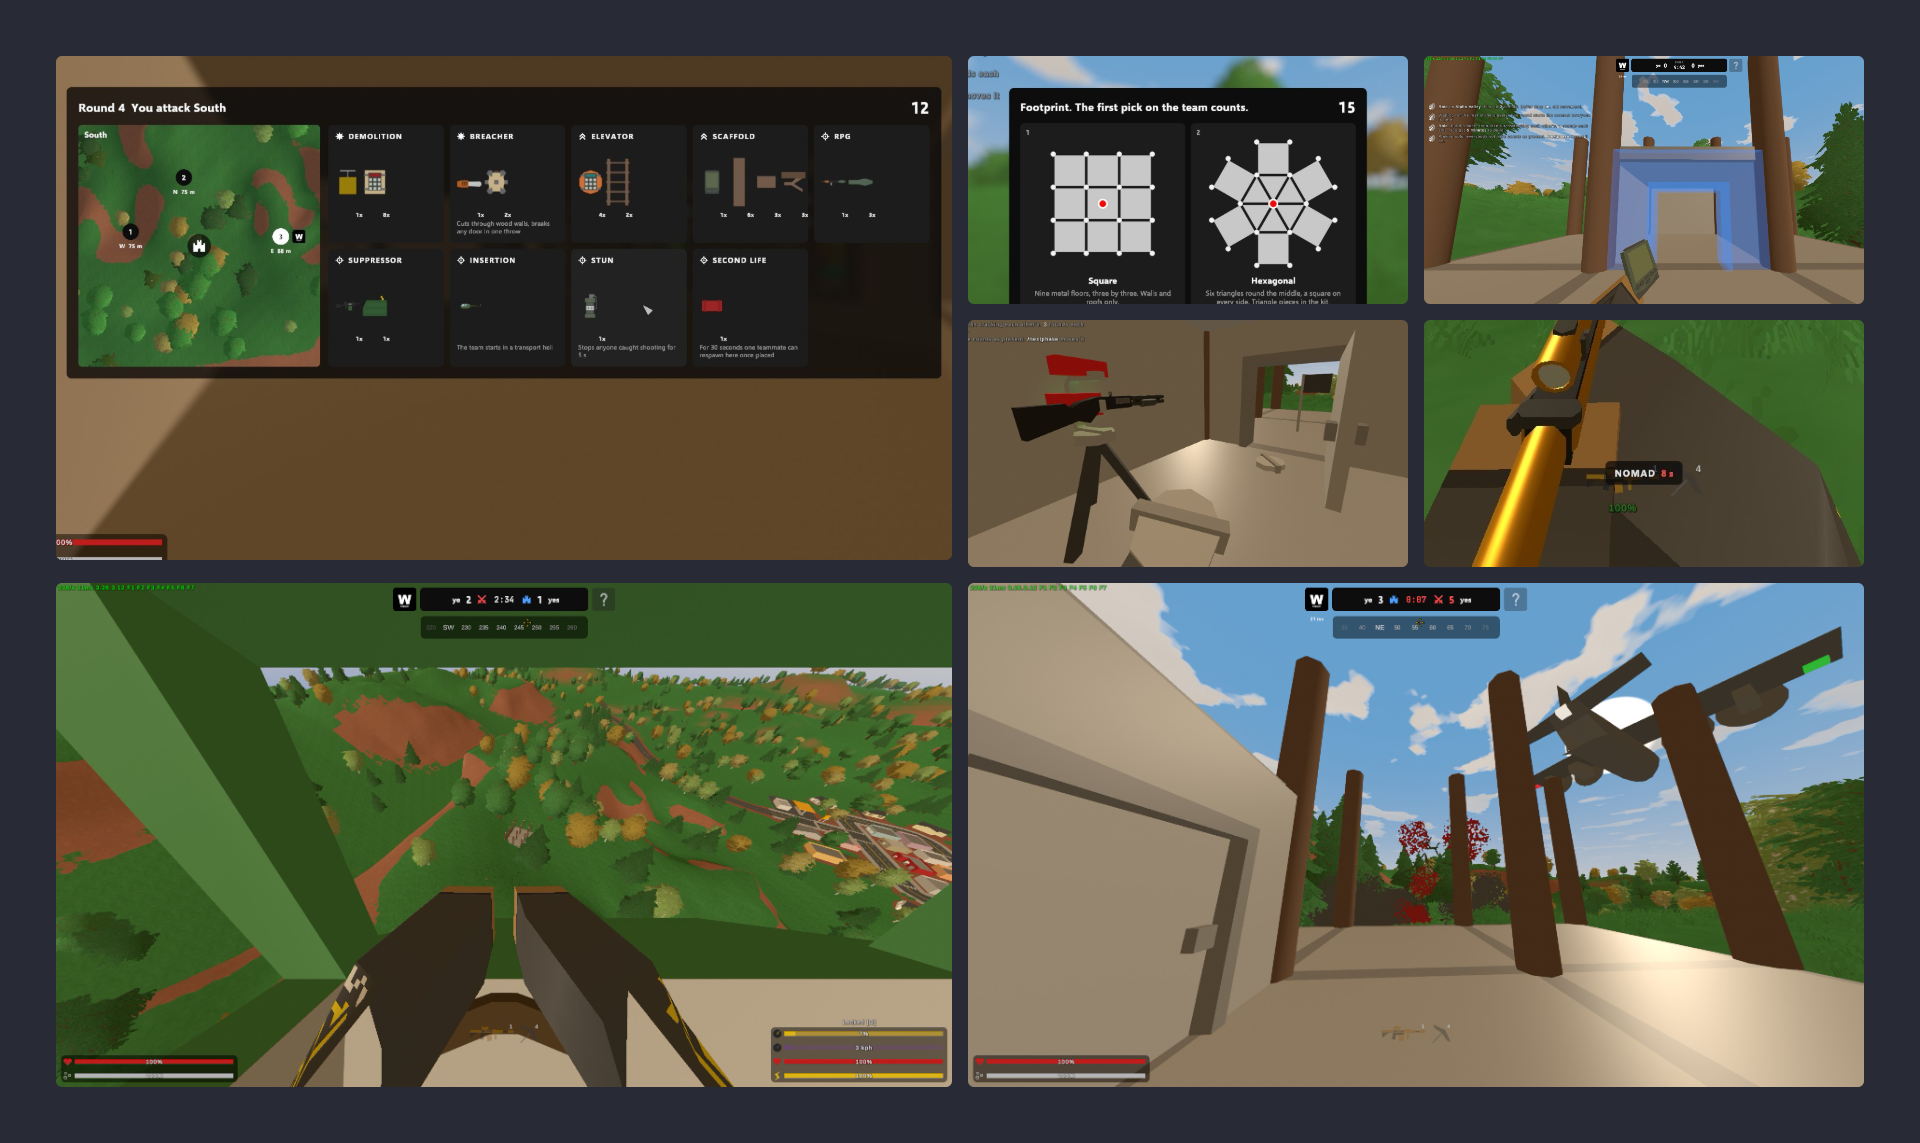
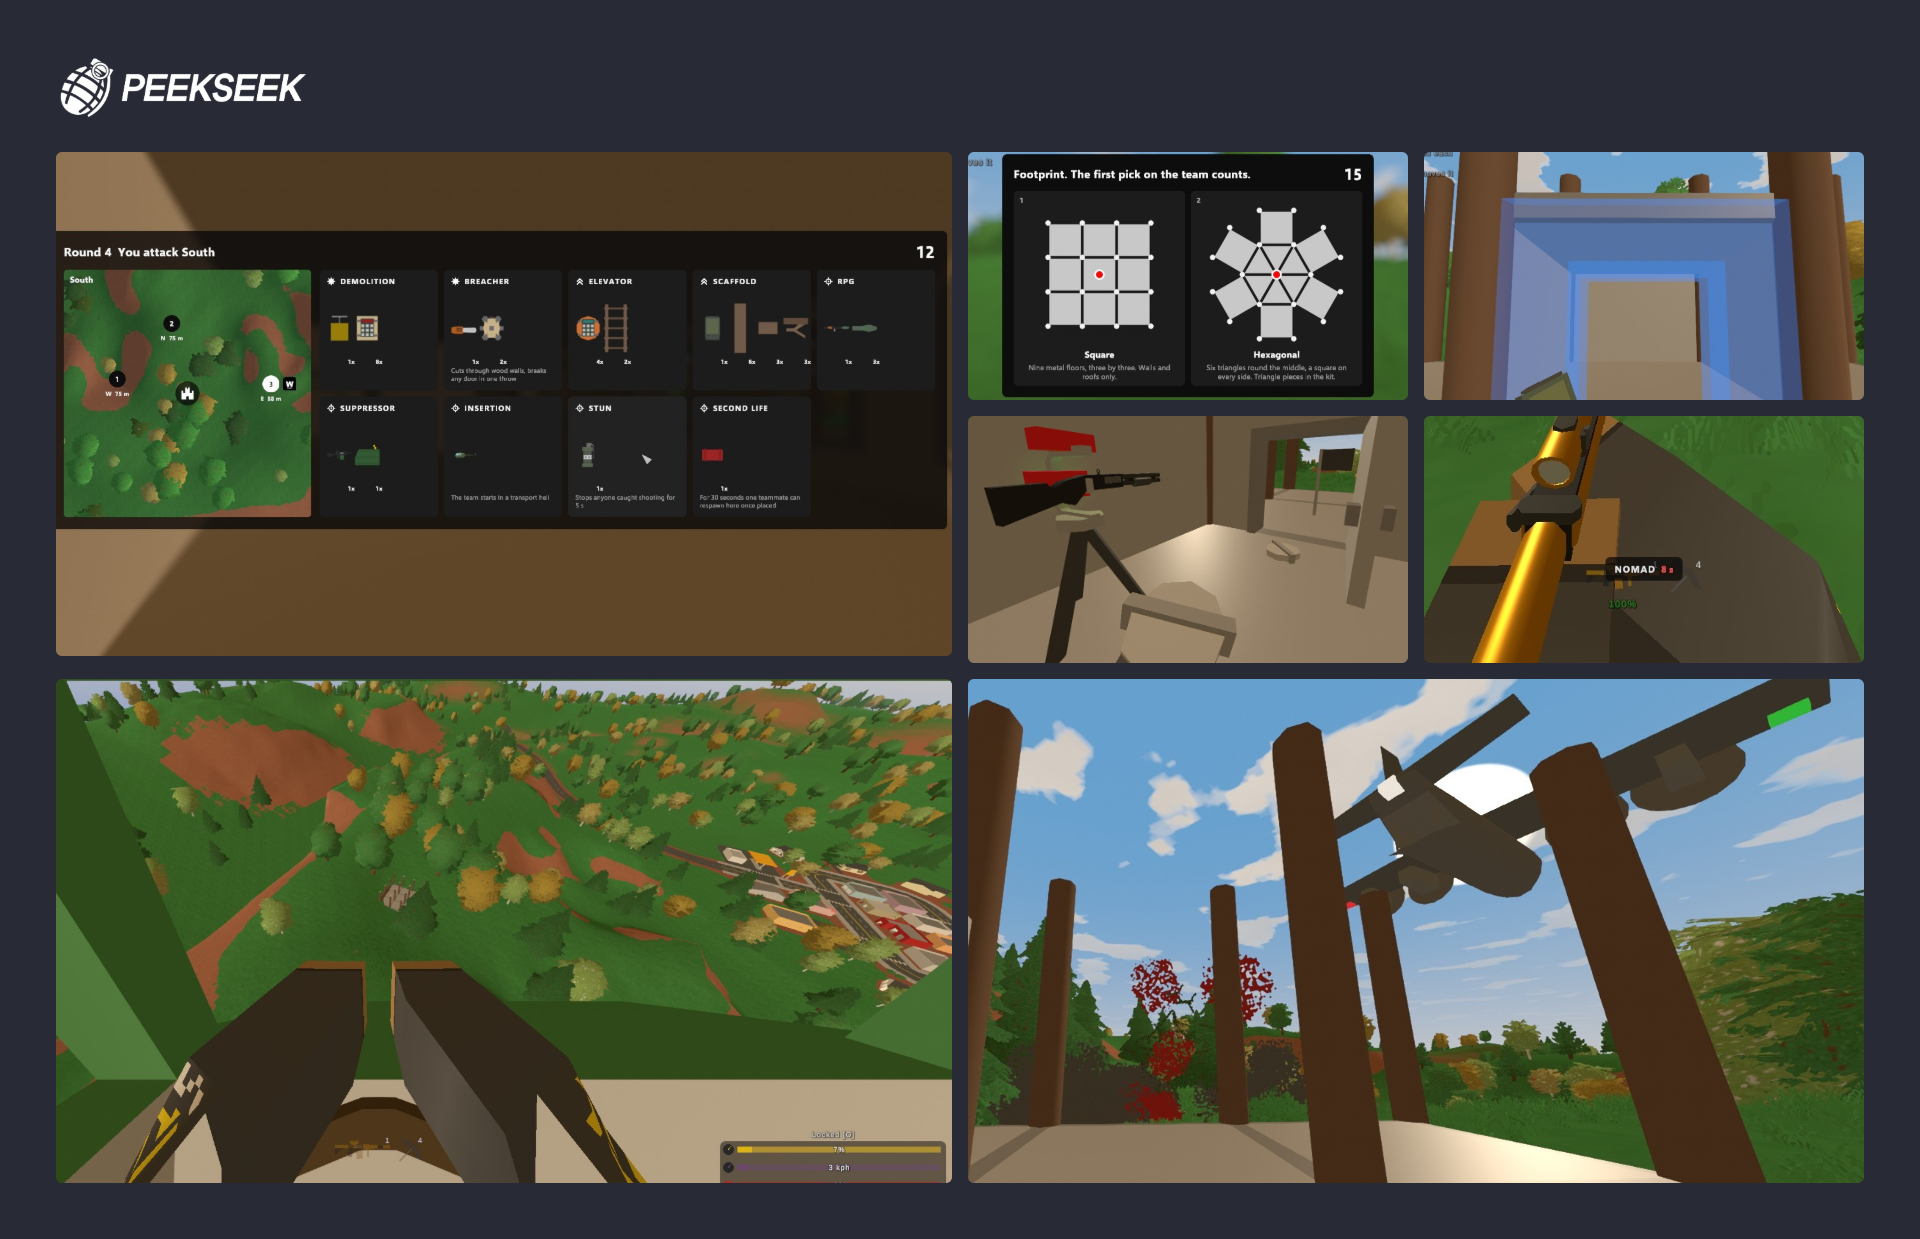
Spawn RAID teams in the exact middle of their base, and keep that spot empty
A team spawned on whichever starting tile was clear, nearest the middle and
spread by roster order, so players landed somewhere different each time and
could be put inside a piece. Every spawn on a team's own base is now the
exact middle of the bottom storey. Anything built there during the build
phase, a starting pillar included, is taken down on the next tick, and the
base is swept once more before it is captured for the rounds. The flag may
not stand there, and is told so.

Also: Match's arena patch comment now says why ARENA must run first, and
the site drops four unused imports.

PeekSeek RAID 0.4.1.

diff --git a/plugins/peekseek-raid/plugin/Core/RaidWorld.cs b/plugins/peekseek-raid/plugin/Core/RaidWorld.cs
@@ -192,10 +192,11 @@ internal static class RaidWorld {
         if (Assets.find(EAssetType.ITEM, PeekSeekRaid.Config.AnchorMarkerItemId) is not ItemBarricadeAsset marker) return;
         if (!anchorTiles.TryGetValue(siteIndex, out List<Vector3> tiles)) return;
 
+        // Never the middle of the bottom storey, which is where the team spawns.
         System.Random random = new();
-        Vector3 chosen = tiles.OrderBy(_ => random.Next())
-            .FirstOrDefault(tile => IsClear(tile) && !NearDoor(tile));
-        if (chosen == default) chosen = site.AnchorPoint;
+        List<Vector3> offSpawn = tiles.Where(tile => !InSpawnColumn(site, tile)).OrderBy(_ => random.Next()).ToList();
+        Vector3 chosen = offSpawn.FirstOrDefault(tile => IsClear(tile) && !NearDoor(tile));
+        if (chosen == default) chosen = offSpawn.Count > 0 ? offSpawn[0] : site.AnchorPoint;
 
         // `offset` on a barricade asset is how far its pivot sits above the ground it
         // stands on, so it is the correction that stops the flag being buried up to
@@ -233,7 +234,7 @@ internal static class RaidWorld {
                 && local.y <= FlagAboveTile;
         });
 
-        return onATile && !NearDoor(point);
+        return onATile && !NearDoor(point) && !InSpawnColumn(site, point);
     }
 
     /// Why the flag may not stand here, or null when it may: at least FlagDoorClearance
@@ -306,24 +307,67 @@ internal static class RaidWorld {
             RayMasks.BARRICADE | RayMasks.STRUCTURE | RayMasks.PLAYER);
     }
 
-    /// Somewhere on a site's starting floors a player fits: the `index`th clear tile,
-    /// counted from the middle outward, so a team is spread over the base rather than
-    /// stacked on one spot. Falls back to the anchor when every tile is built over.
+    /// The middle of a base's bottom storey is where its team spawns, so nothing may
+    /// stand there: anything that does is taken down. A player put inside a wall or a
+    /// pillar glitches, and spreading a team over whichever tiles were clear put people
+    /// somewhere different every time. Only the bottom storey: the column stops below
+    /// the floor above.
     ///
-    /// The anchor alone was wrong for a hexagonal base: its six triangles meet in the
-    /// middle, so a wall on any of their inner edges runs straight through the anchor
-    /// point, and a player put there was put inside it.
-    internal static Vector3 FreeSpot(int siteIndex, RaidSite site, int index) {
-        if (!anchorTiles.TryGetValue(siteIndex, out List<Vector3> tiles) || tiles.Count == 0) return StandingSpot(site);
+    /// Asked on every piece that goes down on a base, so a pillar of the starting frame
+    /// and a wall across a hexagon's middle are caught the same way.
+    internal static void ClearSpawn(RaidSite site) {
+        // A piece that went down this frame is not in the physics scene until it syncs.
+        Physics.SyncTransforms();
+        Vector3 foot = site.AnchorPoint;
+        Collider[] hits = Physics.OverlapCapsule(foot + Vector3.up * SpawnColumnBottom, foot + Vector3.up * SpawnColumnTop,
+            SpawnColumnRadius, RayMasks.BARRICADE | RayMasks.STRUCTURE, QueryTriggerInteraction.Ignore);
 
-        List<Vector3> clear = tiles
-            .OrderBy(tile => (tile - site.AnchorPoint).sqrMagnitude)
-            .Where(IsClear)
-            .ToList();
-        if (clear.Count == 0) return StandingSpot(site);
+        HashSet<Transform> seen = [];
+        foreach (Collider hit in hits) {
+            Transform root = hit.transform.root;
+            if (!seen.Add(root)) continue;
 
-        return clear[Math.Max(0, index) % clear.Count] + Vector3.up * 1.5f;
+            if (StructureManager.FindStructureByRootTransform(root) is { } structure) {
+                if (!IsFloor(structure.asset)) Remove(structure);
+            } else if (BarricadeManager.FindBarricadeByRootTransform(root) is { } barricade) {
+                // The flag is kept off the spot where it is placed instead: taking it
+                // down here would hand the round to the attackers.
+                if (barricade.asset?.id != PeekSeekRaid.Config.AnchorMarkerItemId) RemoveBarricade(barricade);
+            }
+        }
     }
+
+    /// Sites with a piece put down on them since the last tick. The sweep waits a tick
+    /// rather than running inside the game's own spawn callback.
+    private static readonly HashSet<int> spawnsToClear = [];
+
+    internal static void ClearSpawnLater(int siteIndex) {
+        if (siteIndex >= 0) spawnsToClear.Add(siteIndex);
+    }
+
+    internal static void ClearPendingSpawns() {
+        if (spawnsToClear.Count == 0) return;
+
+        foreach (int siteIndex in spawnsToClear) ClearSpawn(PeekSeekRaid.Config.Sites[siteIndex]);
+        spawnsToClear.Clear();
+    }
+
+    /// Whether a point is in a base's spawn column, measured flat, on the bottom storey:
+    /// where the flag may not stand, since the team would spawn inside it.
+    internal static bool InSpawnColumn(RaidSite site, Vector3 point) {
+        Vector3 gap = point - site.AnchorPoint;
+        return gap.x * gap.x + gap.z * gap.z < FlagSpawnClearance * FlagSpawnClearance
+            && gap.y > -0.5f && gap.y < BaseLayout.WallHeight;
+    }
+
+    /// How far, flat, the flag stands from the middle of the bottom storey.
+    private const float FlagSpawnClearance = 1.2f;
+
+    /// The spawn column: a player's width, from just above the anchor floor to just
+    /// under the floor of the storey above.
+    private const float SpawnColumnBottom = 0.7f;
+    private const float SpawnColumnTop = 1.9f;
+    private const float SpawnColumnRadius = 0.45f;
 
     /// A site's flag, wherever on the plot it stands, or null.
     internal static BarricadeDrop Marker(RaidSite site) {
@@ -362,9 +406,8 @@ internal static class RaidWorld {
     /// rather than at its middle.
     private const float AnchorFloorClearance = 0.25f;
 
-    /// Somewhere to stand on a site: on top of the anchor floor, facing the way the
-    /// site faces. Used for build-phase spawns, the leash, and defender spawns, all of
-    /// which want the same answer.
+    /// Somewhere to stand on a site: the exact middle, on top of the anchor floor. Every
+    /// spawn on a team's own base is here, and ClearSpawn keeps it empty.
     internal static Vector3 StandingSpot(RaidSite site) {
         return site.AnchorPoint + Vector3.up * 1.5f;
     }
@@ -458,9 +501,11 @@ internal static class RaidWorld {
     /// A piece a builder put down is one off the pile: spent here, once it exists,
     /// rather than at the request, so a placement the game then refuses costs nothing.
     private static void OnStructureSpawned(StructureRegion region, StructureDrop drop) {
-        if (placingOurselves || raid == null || raid.Phase != RaidPhase.Building) return;
+        if (raid == null || raid.Phase != RaidPhase.Building) return;
 
         StructureData data = drop.GetServersideData();
+        ClearSpawnLater(SiteAt(data.point));
+        if (placingOurselves) return;
         if (data.owner == 0 || SiteAt(data.point) != raid.SideOf(data.owner)) return;
 
         raid.Placed(data.owner, drop.asset.id);
@@ -532,6 +577,7 @@ internal static class RaidWorld {
         if (raid == null || drop.asset == null) return;
 
         BarricadeData data = drop.GetServersideData();
+        if (raid.Phase == RaidPhase.Building) ClearSpawnLater(SiteAt(data.point));
         if (!placingOurselves && raid.Phase == RaidPhase.Building && data.owner != 0
             && SiteAt(data.point) == raid.SideOf(data.owner)) {
             raid.Placed(data.owner, drop.asset.id);

diff --git a/plugins/peekseek-raid/plugin/Core/Raid.cs b/plugins/peekseek-raid/plugin/Core/Raid.cs
@@ -160,6 +160,7 @@ internal class Raid : IGamemode {
     public void Tick() {
         if (phase == RaidPhase.Idle || phase == RaidPhase.Over) return;
 
+        RaidWorld.ClearPendingSpawns();
         if (pendingWinner >= 0 && Time.realtimeSinceStartup >= pendingAt) {
             AfterRound();
             return;
@@ -367,6 +368,7 @@ internal class Raid : IGamemode {
             BaseSnapshot.Clear(site.AnchorPoint, site.BuildRadius, []);
             RaidWorld.PlaceAnchor(team, site, shapes[team]);
             RaidWorld.PlacePillars(site, GroupOf(team), shapes[team]);
+            RaidWorld.ClearSpawnLater(team);
         }
 
         foreach (Player player in Players()) Place(player);
@@ -590,6 +592,8 @@ internal class Raid : IGamemode {
     /// changed material during the build, and a round has to put back what was there.
     private BaseSnapshot Snapshot(int team) {
         RaidSite site = sites[team];
+        // What the rounds restore is what is captured, so the spawn is cleared first.
+        RaidWorld.ClearSpawn(site);
         BaseSnapshot taken = BaseSnapshot.Capture(site.AnchorPoint, site.BuildRadius, []);
         Logger.Log($"Captured {taken.Count} piece(s) for {site.Name}.");
         return taken;
@@ -822,7 +826,7 @@ internal class Raid : IGamemode {
             ulong steam64 = player.channel.owner.playerID.steamID.m_SteamID;
             if (player.life.isDead || !IsDefending(steam64) || site.Contains(player.transform.position)) continue;
 
-            player.teleportToLocationUnsafe(RaidWorld.FreeSpot(DefendedSite, site, IndexInTeam(steam64)), site.Yaw);
+            player.teleportToLocationUnsafe(RaidWorld.StandingSpot(site), site.Yaw);
             Host.Whisper(player.channel.owner, PeekSeekRaid.Instance.Translate("flag_leashed"));
         }
     }
@@ -1042,7 +1046,7 @@ internal class Raid : IGamemode {
             RaidSite site = sites[SideOf(player.channel.owner.playerID.steamID.m_SteamID)];
             if (site.Contains(player.transform.position)) continue;
 
-            player.teleportToLocationUnsafe(RaidWorld.FreeSpot(SideOf(player.channel.owner.playerID.steamID.m_SteamID), site, 0), site.Yaw);
+            player.teleportToLocationUnsafe(RaidWorld.StandingSpot(site), site.Yaw);
             Host.Whisper(player.channel.owner, PeekSeekRaid.Instance.Translate("leashed"));
         }
     }
@@ -1083,7 +1087,7 @@ internal class Raid : IGamemode {
                 return;
 
             case RaidPhase.Building:
-                player.teleportToLocationUnsafe(RaidWorld.FreeSpot(side, own, IndexInTeam(steam64)), own.Yaw);
+                player.teleportToLocationUnsafe(RaidWorld.StandingSpot(own), own.Yaw);
                 RaidWorld.DressForBuilding(player);
                 RaidWorld.Freeze(player, false);
                 BudgetFor(steam64).Watch(player);
@@ -1136,7 +1140,7 @@ internal class Raid : IGamemode {
         RaidSite defended = sites[DefendedSite];
 
         if (IsDefending(steam64)) {
-            player.teleportToLocationUnsafe(RaidWorld.FreeSpot(DefendedSite, defended, IndexInTeam(steam64)), defended.Yaw);
+            player.teleportToLocationUnsafe(RaidWorld.StandingSpot(defended), defended.Yaw);
             return;
         }
 
@@ -1158,7 +1162,7 @@ internal class Raid : IGamemode {
         }
 
         RaidSite own = sites[side];
-        player.teleportToLocationUnsafe(RaidWorld.FreeSpot(side, own, 0), own.Yaw);
+        player.teleportToLocationUnsafe(RaidWorld.StandingSpot(own), own.Yaw);
     }
 
     private static void AllowRespawn(Player player) {

diff --git a/plugins/peekseek-raid/plugin/PeekSeekRaid.cs b/plugins/peekseek-raid/plugin/PeekSeekRaid.cs
@@ -93,7 +93,7 @@ public class PeekSeekRaid : RocketPlugin<PeekSeekRaidConfiguration> {
         { "striker_too_close", "Not on your own base. The smoke has to land <color=white>{0} m</color> out." },
         { "wall_breach", "That wall seals the flag in. At most <color=white>{0}</color> charges to reach it." },
         { "flag_leashed", "<color=white>Stay on your base.</color> The attackers are on their way." },
-        { "flag_where", "The flag goes on one of the <color=white>starting floors</color>, and not next to a door." },
+        { "flag_where", "The flag goes on one of the <color=white>starting floors</color>, not in the middle, where your team spawns, and not next to a door." },
 
         // The boards' headlines: which round, which base, and what the board wants.
         { "board_defend", "Round {0}  You defend {1}" },

diff --git a/plugins/peekseek/plugin/Core/Patches/ArenaPatches.cs b/plugins/peekseek/plugin/Core/Patches/ArenaPatches.cs
@@ -11,8 +11,10 @@ namespace PeekSeek.Core.Patches;
 ///
 /// So the native loop is switched off here, unconditionally. A gamemode that wants
 /// it, which is PeekSeek ARENA, patches the same methods from its own plugin with what
-/// it wants them to do instead; Harmony runs every prefix and skips the original if
-/// any of them says so, so the two patches on one method never fight.
+/// it wants them to do instead, and must run its prefixes first
+/// (`[HarmonyPriority(Priority.First)]`): Harmony skips every prefix after one that
+/// returns false, so a prefix ordered after these never runs at all. That is what kept
+/// every arena match from starting until ARENA 1.1.3.
 [HarmonyPatch(typeof(LevelManager), "arenaLobby")]
 [UsedImplicitly]
 internal class ArenaLobbyPatch {

diff --git a/website/src/core/models/season.py b/website/src/core/models/season.py
@@ -5,7 +5,7 @@ from __future__ import annotations
 from datetime import datetime
 from typing import Optional
 
-from sqlalchemy import BigInteger, Column, DateTime, desc, text
+from sqlalchemy import Column, DateTime, desc, text
 from sqlmodel import Field, SQLModel
 
 from src.core.settings import settings

diff --git a/website/src/tests/test_ranks.py b/website/src/tests/test_ranks.py
@@ -1,8 +1,6 @@
 """The Elo ladder: the configured tiers, the badge an Elo earns, and the bar a
 finished match draws on it."""
 
-from pathlib import Path
-
 import pytest
 
 from src.core.models.rank import Rank

diff --git a/website/src/tests/test_permissions.py b/website/src/tests/test_permissions.py
@@ -1,6 +1,3 @@
-from src.core import models as data
-
-
 def test_default_user_has_no_permissions(user_factory):
     user = user_factory()
     assert user.getPermission("premium") is False

diff --git a/website/src/core/models/event.py b/website/src/core/models/event.py
@@ -1,7 +1,6 @@
 from __future__ import annotations
 
 from datetime import datetime
-from time import time
 from typing import Optional
 from uuid import uuid4
 
